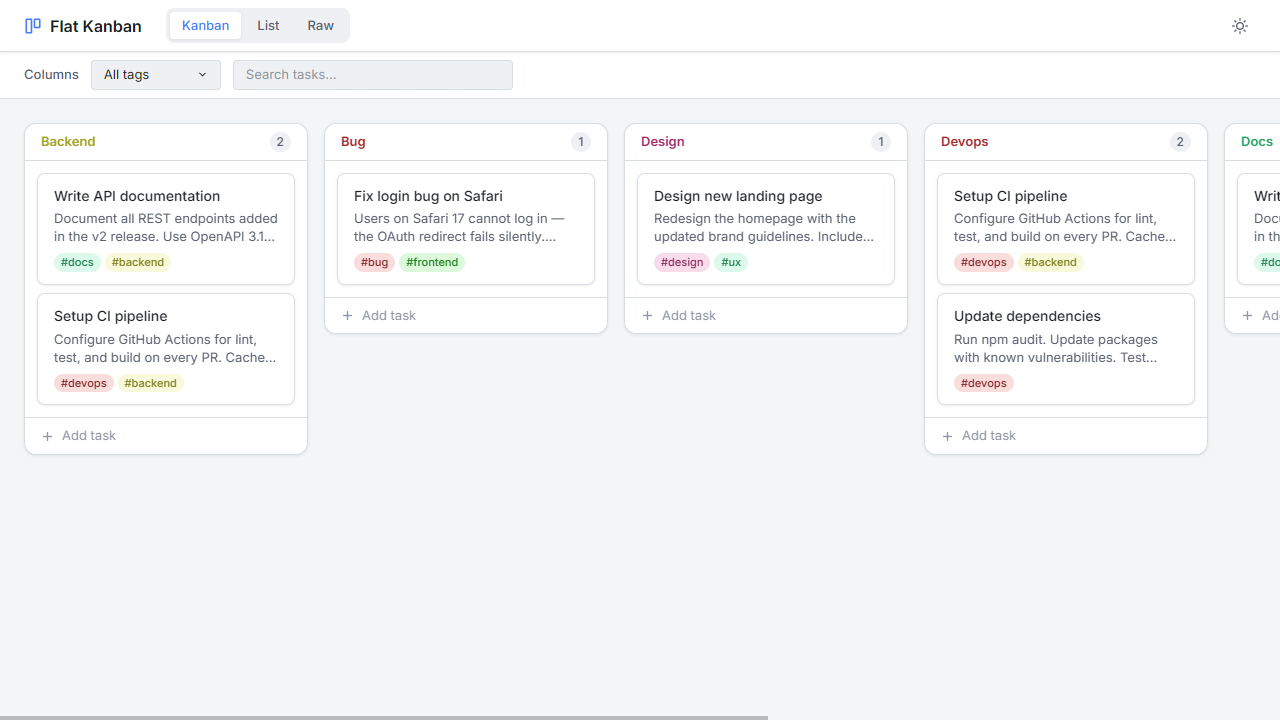
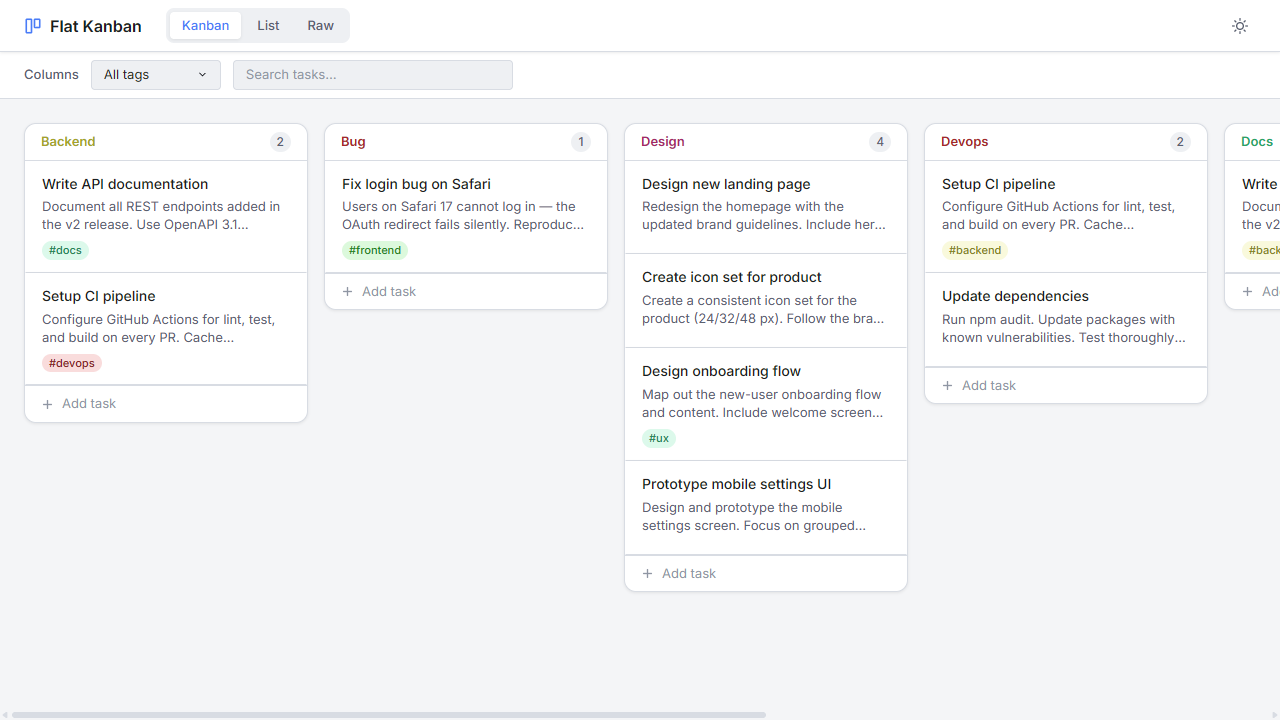
feat(parser): embed task order in tag syntax #tag(N), remove taskOrder pref

diff --git a/index.html b/index.html
@@ -417,7 +417,6 @@
       overflow-y: auto;
       display: flex;
       flex-direction: column;
-      min-height: 80px;
       transition: background var(--ease);
     }
 
@@ -1637,7 +1636,7 @@
       <!-- Full-height text editor -->
       <textarea class="raw-editor"
                 x-model.debounce="rawDraft"
-                @input="rawEdited = rawDraft !== rawText"
+                @input="rawEdited = true"
                 spellcheck="false"
                 autocomplete="off"
                 autocorrect="off"
@@ -1773,9 +1772,9 @@ const STORAGE_KEY   = 'pk_db';
 const PREF_MARKER   = '---PREFERENCES---';
 const TASK_SEP      = '\n---\n';
 const TITLE_RE      = /#title\(([^)]*)\)/;
-const TAG_RE        = /(?<!\\)#([a-zA-Z0-9][a-zA-Z0-9_-]*)/g;
+const TAG_RE        = /(?<!\\)#([a-zA-Z0-9][a-zA-Z0-9_-]*)(?:\((\d+)\))?/g;
 // A line is a "managed metadata line" if every non-empty token starts with #
-const MANAGED_LINE_RE = /^(\s*#[a-zA-Z0-9][a-zA-Z0-9_-]*\s*)+$/;
+const MANAGED_LINE_RE = /^(\s*#[a-zA-Z0-9][a-zA-Z0-9_-]*(?:\(\d+\))?\s*)+$/;
 const TITLE_LINE_RE   = /^#title\([^)]*\)$/;
 const AUTOSAVE_DELAY        = 400;  // ms debounce for UI edits
 const SNIPPET_WORDS         = 20;
@@ -1798,28 +1797,33 @@ function parseTitle(block) {
   return m ? m[1].trim() : null;
 }
 
-/** Collect all #tag tokens, excluding the literal word "title" used in #title(). */
+/** Collect all #tag and #tag(N) tokens, excluding the literal word "title" used in #title(). */
 function parseTags(block) {
   // Strip #title(...) occurrences first so "title" token is not captured
   const stripped = block.replace(/#title\([^)]*\)/g, '');
   const tags = new Set();
+  const tagPositions = {};
   let m;
   TAG_RE.lastIndex = 0;
   while ((m = TAG_RE.exec(stripped)) !== null) {
-    tags.add(m[1].toLowerCase());
+    const tag = m[1].toLowerCase();
+    tags.add(tag);
+    if (m[2] !== undefined) tagPositions[tag] = parseInt(m[2], 10);
   }
-  return [...tags];
+  return { tags: [...tags], tagPositions };
 }
 
 /** Parse a single block of raw text into a Task object. */
 function parseTask(raw, id) {
-  if (raw === '') return { id, raw: '', title: null, tags: [] }; // tombstone
+  if (raw === '') return { id, raw: '', title: null, tags: [], tagPositions: {} }; // tombstone
   const trimmed = raw.trim();
+  const { tags, tagPositions } = parseTags(raw);
   return {
     id,
     raw: trimmed || raw, // preserve whitespace-only blocks as empty tasks
     title: parseTitle(raw),
-    tags:  parseTags(raw),
+    tags,
+    tagPositions,
   };
 }
 
@@ -1830,7 +1834,6 @@ function parsePreferences(text) {
     tagFilter:    'all',
     listGroupBy:  'none',
     tagOrder:     [],
-    taskOrder:    {},
   };
   if (!text) return defaults;
   for (const line of text.split('\n')) {
@@ -1841,8 +1844,6 @@ function parsePreferences(text) {
     if (k in defaults) {
       if (k === 'tagOrder') {
         defaults[k] = v ? v.split(',').filter(Boolean) : [];
-      } else if (k === 'taskOrder') {
-        try { defaults[k] = JSON.parse(v); } catch { defaults[k] = {}; }
       } else if ((k === 'tagFilter' || k === 'listGroupBy') && v.includes(',')) {
         defaults[k] = v.split(',').filter(Boolean);
       } else {
@@ -1933,11 +1934,17 @@ function extractBody(raw) {
 /**
  * Rebuild a task block from its constituent parts.
  * Managed metadata is placed at the top; user body follows (escaped).
+ * tagPositions maps tag name → column rank (written as #tag(N)).
  */
-function buildTaskRaw(title, tags, body) {
+function buildTaskRaw(title, tags, body, tagPositions = {}) {
   const parts = [];
   if (title && title.trim()) parts.push(`#title(${title.trim()})`);
-  if (tags && tags.length)   parts.push(tags.map(t => `#${t}`).join(' '));
+  if (tags && tags.length) {
+    parts.push(tags.map(t => {
+      const pos = tagPositions?.[t];
+      return pos !== undefined ? `#${t}(${pos})` : `#${t}`;
+    }).join(' '));
+  }
   const escaped = body ? escapeBody(body.trim()) : '';
   if (escaped) parts.push(escaped);
   // An empty task (no title, no tags, no body) uses a single newline as a live-task
@@ -1948,11 +1955,11 @@ function buildTaskRaw(title, tags, body) {
 
 /** Serialize preferences object to key=value lines. */
 function serializePreferences(prefs) {
-  return Object.entries(prefs).map(([k, v]) => {
-    if (k === 'taskOrder') return `${k}=${JSON.stringify(v)}`;
-    const val = Array.isArray(v) ? v.join(',') : v;
-    return `${k}=${val}`;
-  }).join('\n');
+  return Object.entries(prefs)
+    .map(([k, v]) => {
+      const val = Array.isArray(v) ? v.join(',') : v;
+      return `${k}=${val}`;
+    }).join('\n');
 }
 
 /**
@@ -2067,7 +2074,6 @@ function kanbanApp() {
     colDragSource:    null,
     colDropTarget:    null,
     tagOrder:         [],
-    taskOrder:        {},
     boardPanning:     false,
     _colIndexMap:     {},
 
@@ -2099,6 +2105,9 @@ function kanbanApp() {
     colCb:   { open: false, search: '' },
     groupCb: { open: false, search: '' },
     tagCb:   { open: false, search: '' },
+
+    _boardScrollLock: false,
+    _boardScrollLockMoveHandler: null,
 
     /**
      * Ordered tag list for column/group display: tagOrder entries first (even if empty),
@@ -2221,10 +2230,8 @@ function kanbanApp() {
       if (!this.rawText) {
         const { tasks, preferences } = parseDatabase(DEMO_DATA);
 
-        this.tasks                 = tasks;
-        this.preferences           = preferences;
-        this.taskOrder             = this._computeTaskOrder();
-        this.preferences.taskOrder = this.taskOrder;
+        this.tasks       = tasks;
+        this.preferences = preferences;
 
         const allParsedTags = [...new Set(tasks.flatMap(t => t.tags))];
         this._syncTagOrder(allParsedTags);
@@ -2273,7 +2280,6 @@ function kanbanApp() {
       this.tagFilter   = storedTf === 'none' ? 'all' : storedTf;
       this.listGroupBy = preferences.listGroupBy ?? 'none';
       this.tagOrder    = (preferences.tagOrder   ?? []).filter(t => t !== '__untagged__');
-      this.taskOrder   = preferences.taskOrder   ?? {};
     },
 
     toggleTheme() {
@@ -2425,25 +2431,8 @@ function kanbanApp() {
     /* ── Persistence ── */
     _saveDatabase() {
       if (this._externalUpdate) return;
-      const taskOrder = this._computeTaskOrder();
-      this.taskOrder             = taskOrder;
-      this.preferences.taskOrder = taskOrder;
       this.rawText = serializeDatabase(this.tasks, this.preferences);
       saveToStorage(this.rawText);
-    },
-
-    /** Snapshot current task ordering for all tags and the untagged group. */
-    _computeTaskOrder() {
-      const to = { ...(this.taskOrder || {}) };
-      for (const tag of this.columnsTagList) {
-        const taggedTasks = this.tasks.filter(t => t.raw !== '' && t.tags.includes(tag));
-        to[tag] = this._orderedTasksForTag(tag, taggedTasks).map(t => t.id);
-      }
-      const untaggedTasks = this.tasks.filter(t => t.raw !== '' && (!t.tags || t.tags.length === 0));
-      if (untaggedTasks.length) {
-        to['__untagged__'] = this._orderedTasksForTag('__untagged__', untaggedTasks).map(t => t.id);
-      }
-      return to;
     },
 
     /** Reload in-memory state from a raw text string (called on storage events from other tabs). */
@@ -2490,7 +2479,7 @@ function kanbanApp() {
         if (typeof text !== 'string') return;
         const { tasks, preferences } = parseDatabase(text);
         tasks.forEach(task => {
-          task.raw = buildTaskRaw(task.title, task.tags, extractBody(task.raw));
+          task.raw = buildTaskRaw(task.title, task.tags, extractBody(task.raw), task.tagPositions);
         });
         this.tasks       = tasks;
         this.preferences = preferences;
@@ -2514,7 +2503,7 @@ function kanbanApp() {
     saveRaw() {
       const { tasks, preferences } = parseDatabase(this.rawDraft);
       tasks.forEach(task => {
-        task.raw = buildTaskRaw(task.title, task.tags, extractBody(task.raw));
+        task.raw = buildTaskRaw(task.title, task.tags, extractBody(task.raw), task.tagPositions);
       });
       this.tasks       = tasks;
       this.preferences = preferences;
@@ -2561,7 +2550,8 @@ function kanbanApp() {
         this.selectedTask.raw = buildTaskRaw(
           this.selectedTask.title,
           this.selectedTask.tags,
-          this.bodyText
+          this.bodyText,
+          this.selectedTask.tagPositions
         );
         this._saveDatabase();
       }
@@ -2577,13 +2567,13 @@ function kanbanApp() {
       if (!task) return;
       const trimmed = newTitle.trim();
       task.title = trimmed || null;
-      task.raw   = buildTaskRaw(task.title, task.tags, extractBody(task.raw));
+      task.raw   = buildTaskRaw(task.title, task.tags, extractBody(task.raw), task.tagPositions);
       this.autosave();
     },
 
     updateBody(task, newBody) {
       if (!task) return;
-      task.raw = buildTaskRaw(task.title, task.tags, newBody);
+      task.raw = buildTaskRaw(task.title, task.tags, newBody, task.tagPositions);
       this.autosave();
     },
 
@@ -2825,8 +2815,15 @@ function kanbanApp() {
     /** Central helper that rebuilds a task's raw block after a tag/title change. */
     _applyTagUpdate(task, newTags) {
       const body = extractBody(task.raw);
-      task.raw   = buildTaskRaw(task.title, newTags, body);
-      task.tags  = newTags;
+      // Only preserve positions for tags that remain in newTags
+      const positions = Object.fromEntries(
+        newTags
+          .filter(t => task.tagPositions?.[t] !== undefined)
+          .map(t => [t, task.tagPositions[t]])
+      );
+      task.tags = newTags;
+      task.tagPositions = positions;
+      task.raw   = buildTaskRaw(task.title, newTags, body, positions);
       this.autosave();
     },
 
@@ -2845,26 +2842,28 @@ function kanbanApp() {
     },
 
     /**
-     * Return `tasks` reordered according to `taskOrder[tag]`.
-     * Tasks listed in the stored order come first; unlisted tasks are appended.
+     * Return `tasks` sorted by their embedded per-tag position (#tag(N)).
+     * Tasks without a stored position sort after all ranked tasks (stable by original order).
      */
     _orderedTasksForTag(tag, tasks) {
-      const order = this.taskOrder[tag] ?? [];
-      if (!order.length) return tasks;
-      const map      = Object.fromEntries(tasks.map(t => [t.id, t]));
-      const listed   = order.map(id => map[id]).filter(Boolean);
-      const listedIds = new Set(order);
-      const unlisted = tasks.filter(t => !listedIds.has(t.id));
-      return [...listed, ...unlisted];
+      if (!tag || tag === '__untagged__') return tasks;
+      return [...tasks].sort((a, b) => {
+        const posA = a.tagPositions?.[tag] ?? Infinity;
+        const posB = b.tagPositions?.[tag] ?? Infinity;
+        return posA - posB;
+      });
     },
 
-    /** Persist the given ordered task list as `taskOrder[tag]`. */
+    /** Assign contiguous rank positions for `tag` in `tasks` and rebuild each task's raw. */
     _applyTaskOrder(tag, tasks) {
-      const o = { ...this.taskOrder };
-      o[tag]  = tasks.map(t => t.id);
-      this.taskOrder             = o;
-      this.preferences.taskOrder = o;
+      if (!tag || tag === '__untagged__') return;
+      tasks.forEach((task, index) => {
+        if (task.raw === '') return;
+        task.tagPositions = { ...(task.tagPositions ?? {}), [tag]: index };
+        task.raw = buildTaskRaw(task.title, task.tags, extractBody(task.raw), task.tagPositions);
+      });
     },
+    
 
     /** Append any candidateTags not yet in tagOrder (sorted). */
     _syncTagOrder(candidateTags) {
@@ -2873,21 +2872,18 @@ function kanbanApp() {
       if (!added.length) return;
       this.tagOrder             = [...order, ...added];
       this.preferences.tagOrder = this.tagOrder;
-      // Ensure taskOrder entries exist for new tags
-      const to = { ...this.taskOrder };
-      let changed = false;
-      added.forEach(t => { if (!(t in to)) { to[t] = []; changed = true; } });
-      if (changed) {
-        this.taskOrder             = to;
-        this.preferences.taskOrder = to;
-      }
     },
 
     addTaskToColumn(tag) {
       const newId = this.tasks.length ? Math.max(...this.tasks.map(t => t.id)) + 1 : 1;
       const tags  = (tag && tag !== '__untagged__') ? [tag] : [];
-      const raw   = buildTaskRaw(null, tags, '');
-      const task  = { id: newId, raw, title: null, tags };
+      const tagPositions = {};
+      if (tags.length) {
+        const count = this.tasks.filter(t => t.raw !== '' && t.tags.includes(tags[0])).length;
+        tagPositions[tags[0]] = count; // append at end of column
+      }
+      const raw  = buildTaskRaw(null, tags, '', tagPositions);
+      const task = { id: newId, raw, title: null, tags, tagPositions };
       this.tasks.push(task);
       this.autosave();
       this.openTask(task);
@@ -3043,10 +3039,29 @@ function kanbanApp() {
     /** Translate vertical wheel events into horizontal board scroll. */
     boardWheelScroll(event) {
       if (event.deltaY === 0) return;
-      // If the pointer is over a vertically scrollable column, let it scroll normally
-      if (event.target.closest('.kanban-cards')) return;
+      // While lock is active, route column-area wheel to horizontal board scroll
+      const overColumn = !!event.target.closest('.kanban-cards');
+      if (overColumn && !this._boardScrollLock) return; // normal column scroll
       event.preventDefault();
       this.$refs.kanbanBoard.scrollLeft += event.deltaY;
+      this._setBoardScrollLock();
+    },
+
+    /** Activate the board-scroll lock and register a one-shot mousemove to clear it. */
+    _setBoardScrollLock() {
+      this._boardScrollLock = true;
+      if (this._boardScrollLockMoveHandler) return;
+
+      let movement = 0;
+      this._boardScrollLockMoveHandler = (event) => {
+        movement += Math.abs(event.movementX) + Math.abs(event.movementY);
+        if (movement < 50) return;
+
+        this._boardScrollLock = false;
+        document.removeEventListener('mousemove', this._boardScrollLockMoveHandler);
+        this._boardScrollLockMoveHandler = null;
+      };
+      document.addEventListener('mousemove', this._boardScrollLockMoveHandler);
     },
 
     /* ─────────────────────────────────────────────
